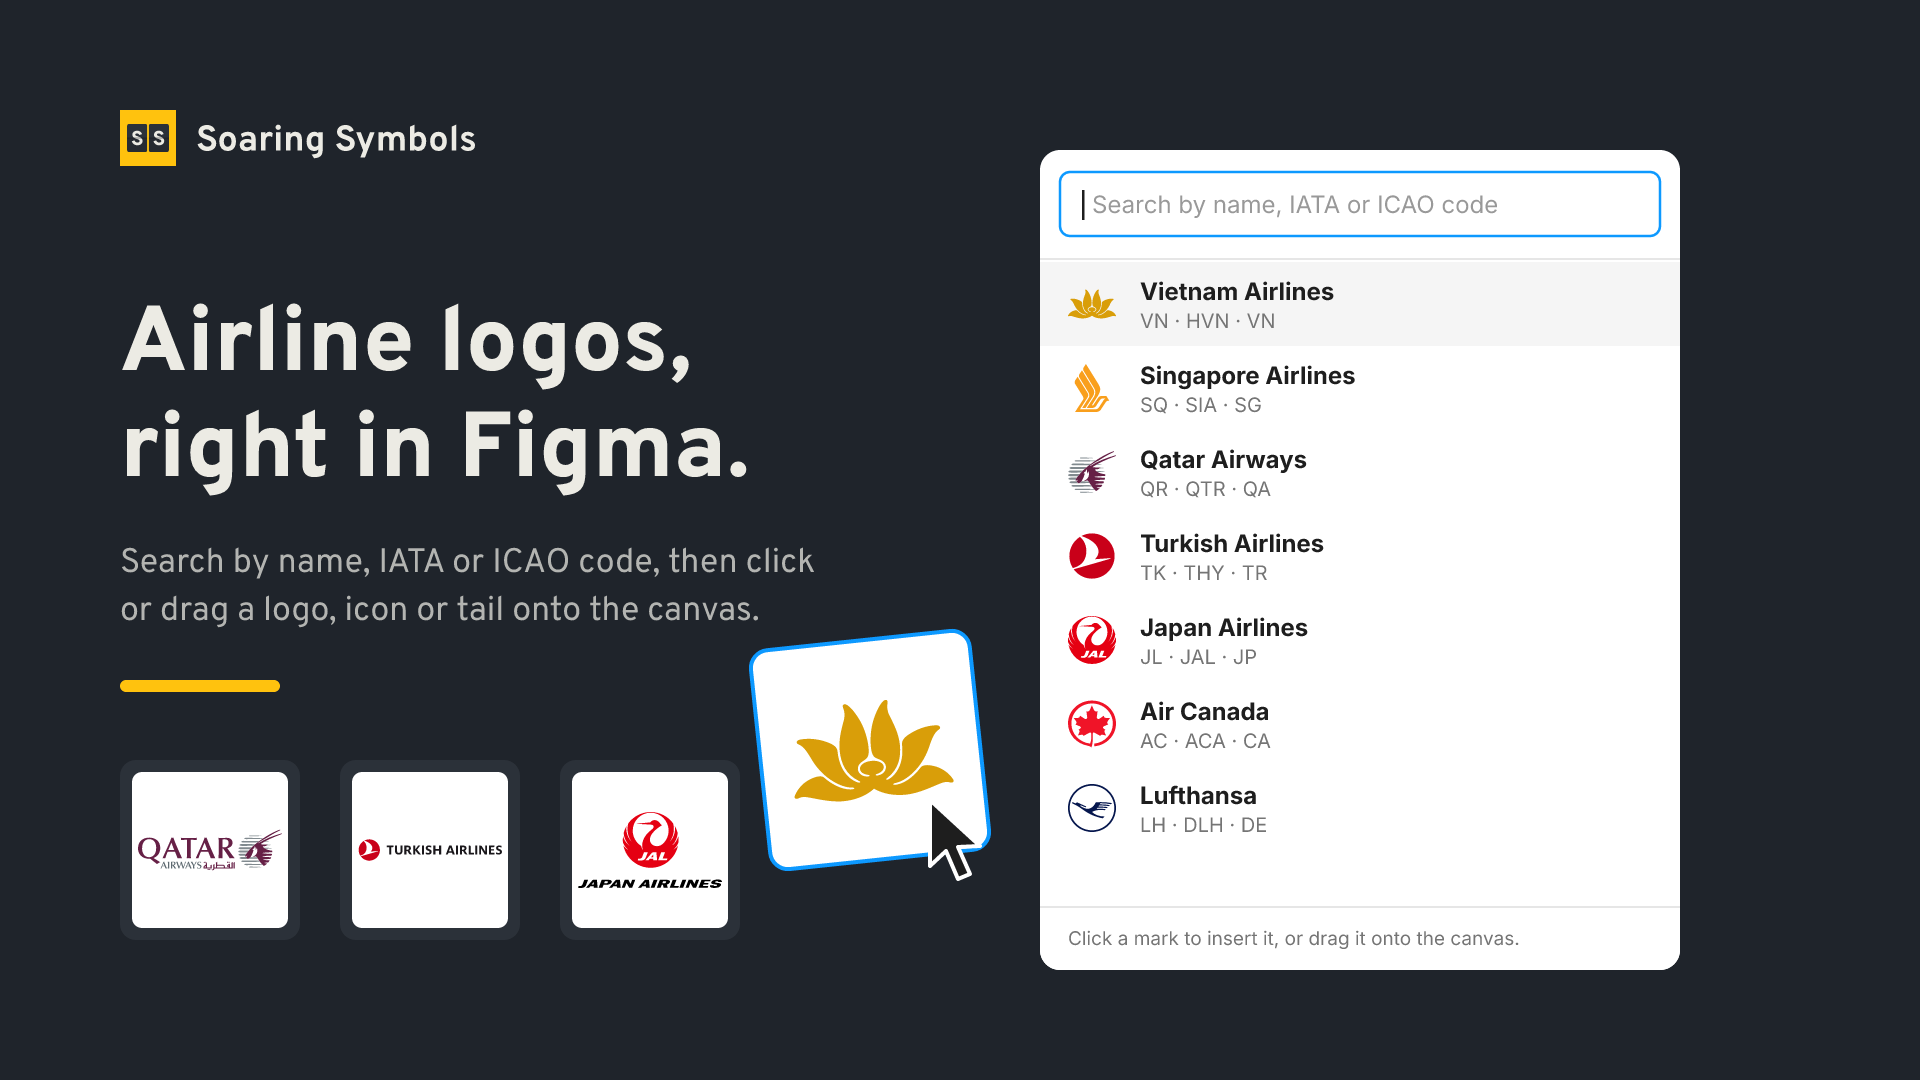
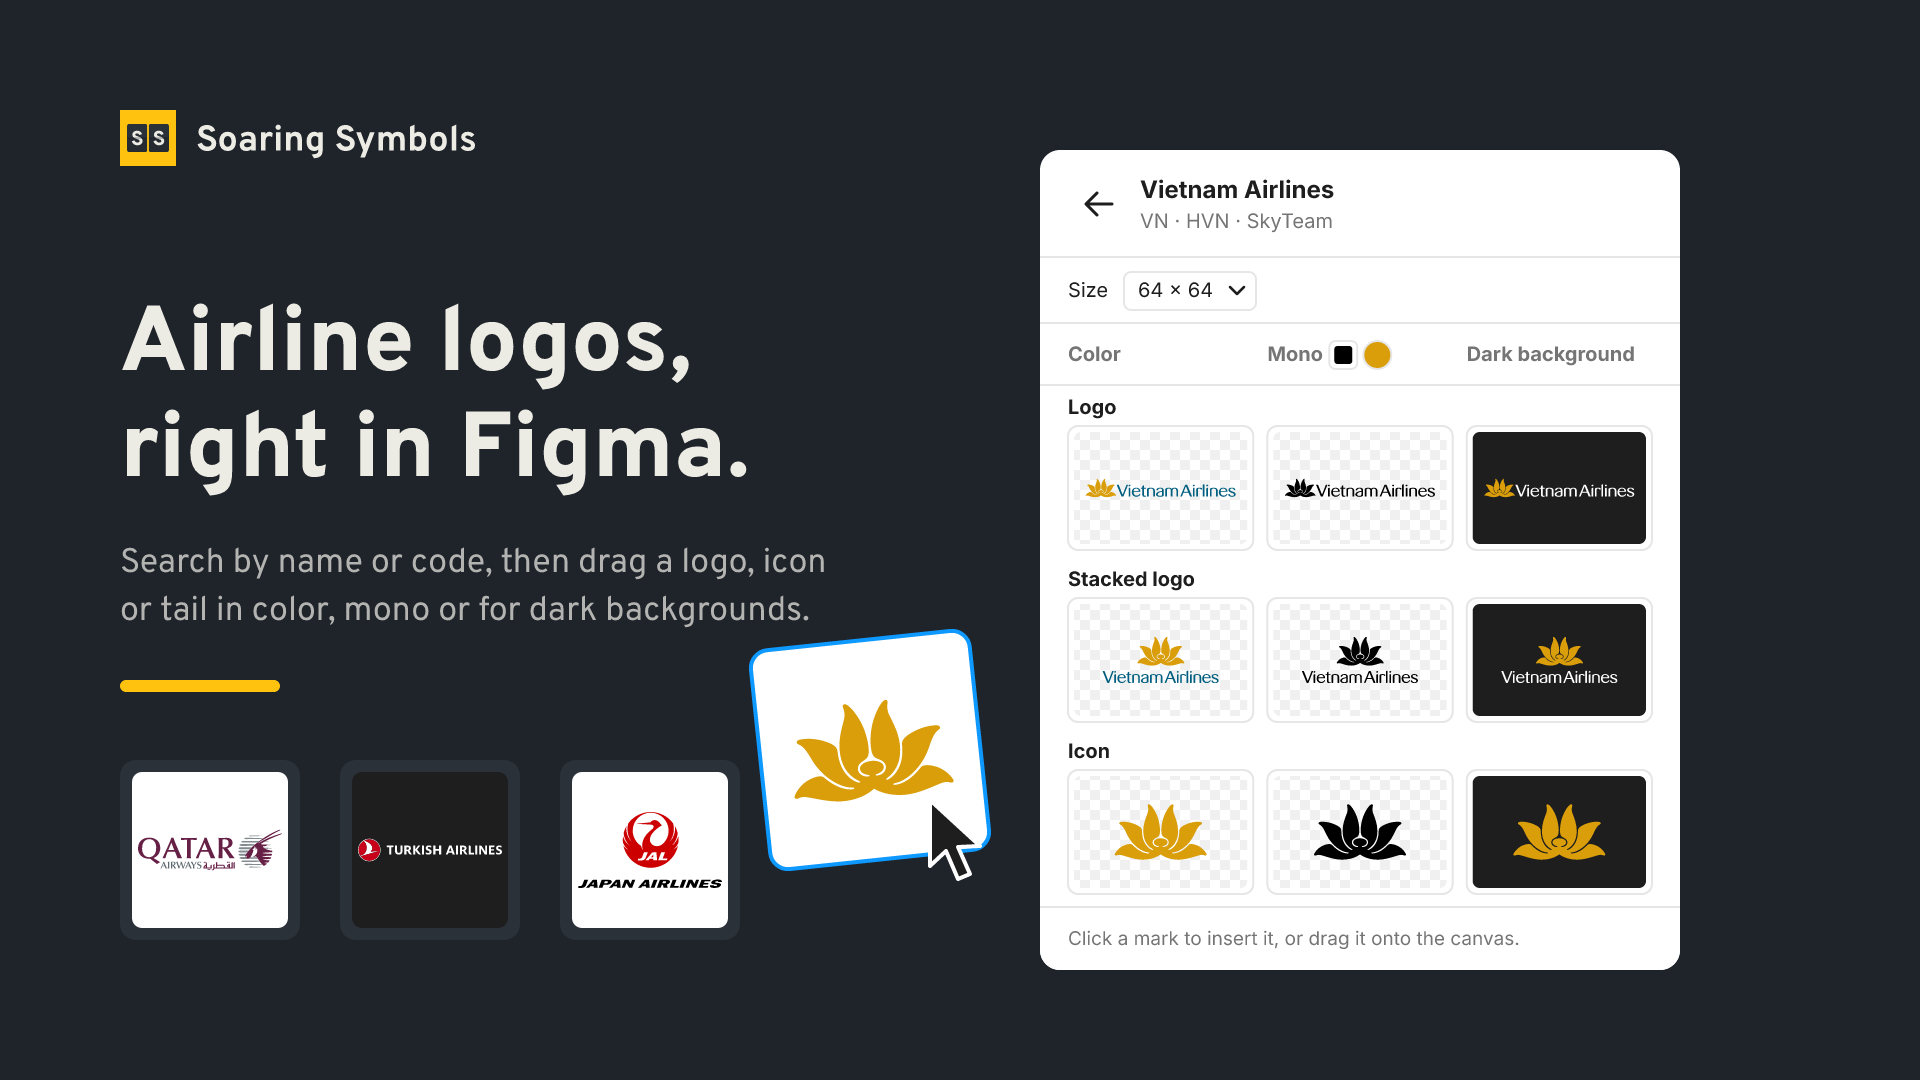
feat: show the plugin's marks in rows and columns in the Figma thumbnail
The panel now shows Vietnam Airlines' detail view: a row per mark type,
with its color, mono and dark-background versions in columns. One placed
mark uses its dark version, and the line under the title names the three.

diff --git a/scripts/render.js b/scripts/render.js
@@ -139,45 +139,77 @@ const DARK = '#1f242b',
     LIGHT = '#ecebe4',
     YELLOW = '#ffc20e'
 
-// The plugin panel, drawn as it looks in Figma's light theme, at 1.6x
+// The plugin panel, drawn as it looks in Figma's light theme at about 1.8x:
+// an airline's marks, a row per mark type and a column per version
 const PX = 1040,
     PY = 150,
     PW = 640,
     PH = 820,
     R = 20
-const rows = [
-    ['Vietnam Airlines', 'VN · HVN · VN', 'vietnam-airlines'],
-    ['Singapore Airlines', 'SQ · SIA · SG', 'singapore-airlines'],
-    ['Qatar Airways', 'QR · QTR · QA', 'qatar-airways'],
-    ['Turkish Airlines', 'TK · THY · TR', 'turkish-airlines'],
-    ['Japan Airlines', 'JL · JAL · JP', 'japan-airlines'],
-    ['Air Canada', 'AC · ACA · CA', 'air-canada'],
-    ['Lufthansa', 'LH · DLH · DE', 'lufthansa'],
-]
-const rowH = 84
-const list = rows
-    .map(([name, codes, slug], i) => {
-        const y = PY + 112 + i * rowH
-        const hover =
-            i === 0
-                ? `<rect x="${PX}" y="${y}" width="${PW}" height="${rowH}" fill="#f5f5f5"/>`
-                : ''
+const PAD = 28,
+    GAP = 14
+const columns = ['Color', 'Mono', 'Dark background']
+const colW = (PW - 2 * PAD - 2 * GAP) / 3
+const colX = (i) => PX + PAD + i * (colW + GAP)
+const tileH = 124
+const CHECKER = `<pattern id="checker" width="20" height="20" patternUnits="userSpaceOnUse">
+  <rect width="20" height="20" fill="#ffffff"/>
+  <rect width="10" height="10" fill="#f0f0f0"/>
+  <rect x="10" y="10" width="10" height="10" fill="#f0f0f0"/>
+</pattern>`
+// A tile with its version of the mark: on a checkerboard, or on dark for
+// the one made for dark backgrounds
+const tile = (svg, i, y, dark, markW) => {
+    const x = colX(i)
+    const inner = `<rect x="${x + 6}" y="${y + 6}" width="${colW - 12}" height="${tileH - 12}" rx="7" fill="${dark ? '#1e1e1e' : 'url(#checker)'}"/>`
 
-        return `${hover}${img(asset(slug, 'icon'), PX + 28, y + 18, 48)}
-<text x="${PX + 100}" y="${y + 38}" font-size="24" font-weight="700" fill="#1e1e1e">${esc(name)}</text>
-<text x="${PX + 100}" y="${y + 66}" font-size="20" fill="#757575">${esc(codes)}</text>`
+    return `<rect x="${x}" y="${y}" width="${colW}" height="${tileH}" rx="10" fill="#ffffff" stroke="#e6e6e6" stroke-width="2"/>
+${inner}${img(svg, x + (colW - markW) / 2, y + (tileH - markW) / 2, markW)}`
+}
+const markRows = [
+    ['Logo', 'logo'],
+    ['Stacked logo', 'logo-stacked'],
+    ['Icon', 'icon'],
+]
+const rowsTop = PY + 108 + 64 + 64
+const rowH = 40 + tileH + 8
+const grid = markRows
+    .map(([label, type], r) => {
+        const y = rowsTop + r * rowH
+        const markW = { logo: 150, 'logo-stacked': 116, icon: 92 }[type]
+
+        return `<text x="${PX + PAD}" y="${y + 28}" font-size="20" font-weight="700" fill="#1e1e1e">${label}</text>
+${tile(asset('vietnam-airlines', type), 0, y + 40, false, markW)}
+${tile(asset('vietnam-airlines', `${type}-mono`), 1, y + 40, false, markW)}
+${tile(asset('vietnam-airlines', `${type}-dark`), 2, y + 40, true, markW)}`
     })
     .join('\n')
 
 const panel = `
+<defs>${CHECKER}</defs>
 <rect x="${PX}" y="${PY}" width="${PW}" height="${PH}" rx="${R}" fill="#ffffff"/>
 <clipPath id="panel"><rect x="${PX}" y="${PY}" width="${PW}" height="${PH}" rx="${R}"/></clipPath>
 <g clip-path="url(#panel)" font-family="Inter">
-  <rect x="${PX + 20}" y="${PY + 22}" width="${PW - 40}" height="64" rx="10" fill="none" stroke="#0d99ff" stroke-width="2.5"/>
-  <rect x="${PX + 42}" y="${PY + 40}" width="2.5" height="30" fill="#1e1e1e"/>
-  <text x="${PX + 52}" y="${PY + 63}" font-size="24" fill="#999999">Search by name, IATA or ICAO code</text>
-  <rect x="${PX}" y="${PY + 108}" width="${PW}" height="2" fill="#e6e6e6"/>
-  ${list}
+  <path d="M ${PX + 46} ${PY + 54} h 26 M ${PX + 46} ${PY + 54} l 11 -11 M ${PX + 46} ${PY + 54} l 11 11" fill="none" stroke="#1e1e1e" stroke-width="3" stroke-linecap="round" stroke-linejoin="round"/>
+  <text x="${PX + 100}" y="${PY + 48}" font-size="24" font-weight="700" fill="#1e1e1e">Vietnam Airlines</text>
+  <text x="${PX + 100}" y="${PY + 78}" font-size="20" fill="#757575">VN · HVN · SkyTeam</text>
+  <rect x="${PX}" y="${PY + 106}" width="${PW}" height="2" fill="#e6e6e6"/>
+  <text x="${PX + PAD}" y="${PY + 147}" font-size="20" fill="#1e1e1e">Size</text>
+  <rect x="${PX + PAD + 56}" y="${PY + 122}" width="132" height="38" rx="7" fill="none" stroke="#e6e6e6" stroke-width="2"/>
+  <text x="${PX + PAD + 70}" y="${PY + 147}" font-size="20" fill="#1e1e1e">64 × 64</text>
+  <path d="M ${PX + PAD + 162} ${PY + 137} l 7 7 l 7 -7" fill="none" stroke="#1e1e1e" stroke-width="2.5" stroke-linecap="round" stroke-linejoin="round"/>
+  <rect x="${PX}" y="${PY + 172}" width="${PW}" height="2" fill="#e6e6e6"/>
+  ${columns
+      .map(
+          (title, i) =>
+              `<text x="${colX(i)}" y="${PY + 211}" font-size="20" font-weight="700" fill="#757575">${title}</text>`,
+      )
+      .join('\n  ')}
+  <rect x="${colX(1) + 62}" y="${PY + 191}" width="28" height="28" rx="6" fill="#ffffff" stroke="#e6e6e6" stroke-width="2"/>
+  <rect x="${colX(1) + 67}" y="${PY + 196}" width="18" height="18" rx="3" fill="#000000"/>
+  <circle cx="${colX(1) + 110}" cy="${PY + 205}" r="14" fill="#d99e09" stroke="#e6e6e6" stroke-width="2"/>
+  <rect x="${PX}" y="${PY + 234}" width="${PW}" height="2" fill="#e6e6e6"/>
+  ${grid}
   <rect x="${PX}" y="${PY + PH - 64}" width="${PW}" height="64" fill="#ffffff"/>
   <rect x="${PX}" y="${PY + PH - 64}" width="${PW}" height="2" fill="#e6e6e6"/>
   <text x="${PX + 28}" y="${PY + PH - 25}" font-size="19" fill="#757575">Click a mark to insert it, or drag it onto the canvas.</text>
@@ -197,8 +229,8 @@ const drag = `
 // Marks already placed on the "canvas" behind the text
 const placed = [
     ['qatar-airways', 'logo', 120, 760, 180],
-    ['turkish-airlines', 'logo', 340, 760, 180],
-    ['japan-airlines', 'logo', 560, 760, 180],
+    ['turkish-airlines', 'logo-dark', 340, 760, 180],
+    ['japan-airlines', 'logo-stacked', 560, 760, 180],
 ]
     .map(
         ([
@@ -208,7 +240,7 @@ const placed = [
             y,
             s,
         ]) => `<rect x="${x}" y="${y}" width="${s}" height="${s}" rx="16" fill="#2b3139"/>
-<rect x="${x + 12}" y="${y + 12}" width="${s - 24}" height="${s - 24}" rx="10" fill="#ffffff"/>${img(asset(slug, file), x + 18, y + 18, s - 36)}`,
+<rect x="${x + 12}" y="${y + 12}" width="${s - 24}" height="${s - 24}" rx="10" fill="${file.endsWith('-dark') ? '#1e1e1e' : '#ffffff'}"/>${img(asset(slug, file), x + 18, y + 18, s - 36)}`,
     )
     .join('\n')
 
@@ -228,8 +260,8 @@ const thumb = `<svg xmlns="http://www.w3.org/2000/svg" width="1920" height="1080
   <tspan x="120" y="476">right in Figma.</tspan>
 </text>
 <text font-size="34" fill="${LIGHT}" fill-opacity="0.72">
-  <tspan x="120" y="572">Search by name, IATA or ICAO code, then click</tspan>
-  <tspan x="120" y="620">or drag a logo, icon or tail onto the canvas.</tspan>
+  <tspan x="120" y="572">Search by name or code, then drag a logo, icon</tspan>
+  <tspan x="120" y="620">or tail in color, mono or for dark backgrounds.</tspan>
 </text>
 <rect x="120" y="680" width="160" height="12" rx="6" fill="${YELLOW}"/>
 ${placed}
